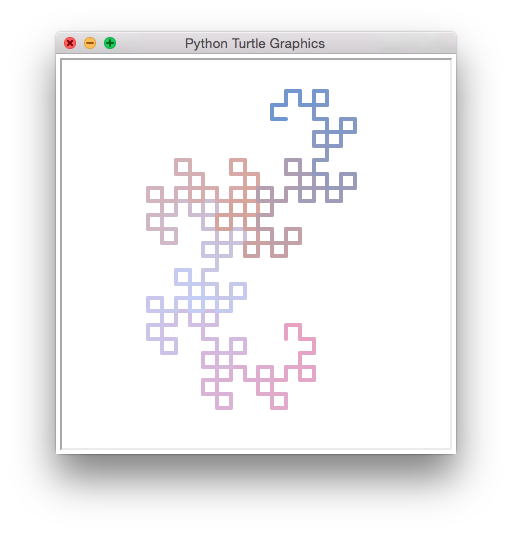
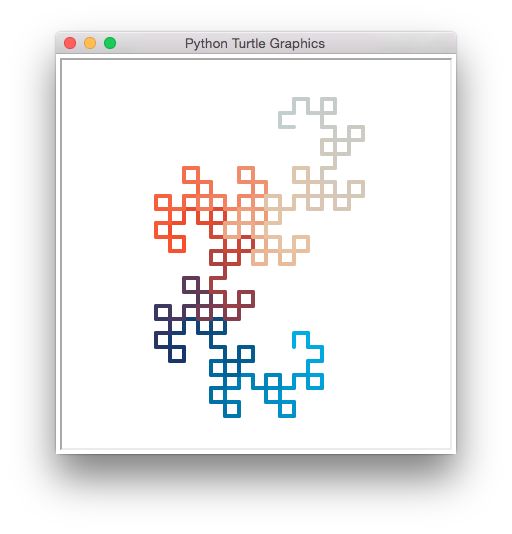
Added gif, and changed dragon image

Changed region(s): [[0.2812, 0.1498, 0.7188, 0.809], [0.125, 0.0599, 0.1562, 0.0899]]

diff --git a/t.py b/t.py
@@ -1,0 +1,9 @@
+from lsystem import eval_rules, Drawer
+
+pythag_rules = {'1': '11', '0': '1[0]0'}
+pythag_draw_rules = {'1': lambda **kws: kws['t'].forward(kws['step']), 
+        '[': lambda **kws: kws['t'].left(45), ']': lambda **kws: kws['t'].right(45), 
+        '0': lambda **kws: kws['t'].forward(kws['step']/2)}
+niter = 5
+pythag_seq = eval_rules(pythag_rules, niter, init='0')
+Drawer(pythag_seq, pythag_draw_rules).draw()

diff --git a/lsystem.py b/lsystem.py
@@ -66,9 +66,8 @@ class Drawer(object):
 				try:
 					draw_rules[c](t=self.t, step=step, depth=depth)
 				except:
-					raise
 					for func in draw_rules[c]:
-						func(self.t, step)
+						func(t=self.t, step=step, depth=depth)
 			yield
 
 	def draw(self):
@@ -98,7 +97,6 @@ class Drawer(object):
 			self.t.hideturtle()
 			turtle.done()
 		except:
-			raise
 			turtle.bye()
 
 
